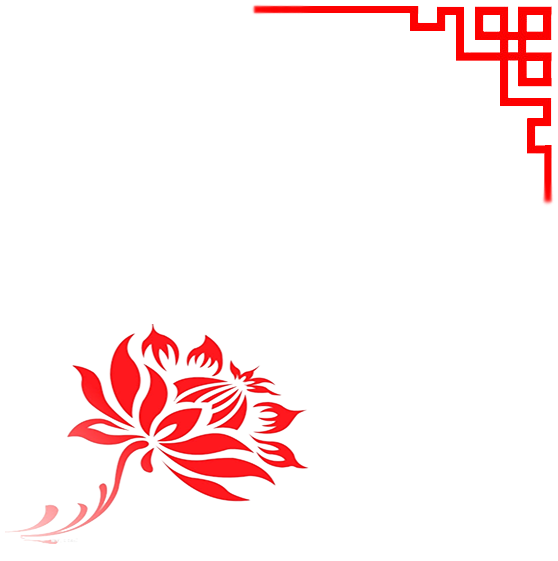
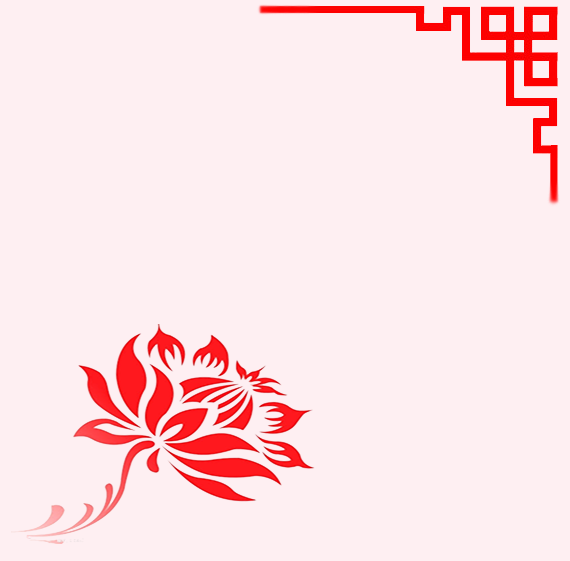
增加个人信息界面

Changed region(s): [[0.0305, 0.5758, 0.457, 0.9697], [0.7312, 0.0, 1.0, 0.3636], [0.4265, 0.7879, 0.4875, 0.8485]]

diff --git a/website/info.html b/website/info.html
@@ -30,69 +30,73 @@
             </div>
 	    </div>
 	</div>
+	
+	<!-- 中间部分 -->
+	<div class="content">
+		<!-- 隐藏的天空 -->
+		<div id="sky"></div>
+		<!-- 显示的天空 -->
+		<div class="section">
+			<div id="info">
+				<div class="navbar navbar-default" role="navigation">
+				     <ul class="nav navbar-nav">
+				     	<li class="active basic"><a href="##">基本信息</a></li>
+				        <li class="duilian"><a href="##">我的对联</a></li>
+				        <li class="points"><a href="##">我的积分</a></li>
+				        <li><a href="##">我要充值</a></li>
+				        <li><a href="##">收藏样式</a></li>
+					 </ul>
+				</div>
+				<!-- 基本信息 -->
+				<div class="info-basic">
+					<form role="form">
+					  <div class="form-group">
+					  	<label for="InputUsername">用户名：</label>
+					    <input type="text" class="form-control" placeholder="您的用户名">
+						
+						<div>
+						    <label >性别：
+						        <input type="radio"  value="option1" name="sex"> 男  
+						    </label>
+						    <label >
+						        <input type="radio"  value="option2" name="sex"> 女  
+						    </label>
+						</div>
 
-	<div class="section">
-		<div id="info">
-			<div class="navbar navbar-default" role="navigation">
-			     <ul class="nav navbar-nav">
-			     	<li class="active basic"><a href="##">基本信息</a></li>
-			        <li class="duilian"><a href="##">我的对联</a></li>
-			        <li class="points"><a href="##">我的积分</a></li>
-			        <li><a href="##">我要充值</a></li>
-			        <li><a href="##">收藏样式</a></li>
-				 </ul>
-			</div>
-			<!-- 基本信息 -->
-			<div class="info-basic">
-				<form role="form">
-				  <div class="form-group">
-				  	<label for="InputUsername">用户名：</label>
-				    <input type="text" class="form-control" placeholder="您的用户名">
-					
+					    <label for="InputEmail">邮箱：</label>
+					    <input type="email" class="form-control" placeholder="您的邮箱地址">
+						
+						<label for="Inputphonenumber">手机号码：</label>
+					    <input type="text" class="form-control" placeholder="您的手机号码">
+
+					    <label for="InputPassword">密码：</label>
+					    <input type="password" class="form-control" placeholder="您的密码">
+
+					  </div>
+					</form> 
+				</div>
+				<div class="my-duilian">
 					<div>
-					    <label >性别：
-					        <input type="radio"  value="option1" name="sex"> 男  
-					    </label>
-					    <label >
-					        <input type="radio"  value="option2" name="sex"> 女  
-					    </label>
+						<p>大鹏一日同风起，扶摇直上九万里;</p>
+						<p>破茧成蝶轻飞舞，浴火重生不畏苦。</p>
 					</div>
-
-				    <label for="InputEmail">邮箱：</label>
-				    <input type="email" class="form-control" placeholder="您的邮箱地址">
-					
-					<label for="Inputphonenumber">手机号码：</label>
-				    <input type="text" class="form-control" placeholder="您的手机号码">
-
-				    <label for="InputPassword">密码：</label>
-				    <input type="password" class="form-control" placeholder="您的密码">
-
-				  </div>
-				</form> 
-			</div>
-			<div class="my-duilian">
-				<div>
-					<p>大鹏一日同风起，扶摇直上九万里;</p>
-					<p>破茧成蝶轻飞舞，浴火重生不畏苦。</p>
+					<div>
+						<p>泛商海，同甘苦，竞逐群雄，一路豪情向天歌;</p>
+						<p>展宏图，攀高峰，搏击长空，七彩人生铸辉煌。</p>
+					</div>
+					<div>
+						<p>大鹏一日同风起，扶摇直上九万里;</p>
+						<p>破茧成蝶轻飞舞，浴火重生不畏苦。</p>
+					</div>
 				</div>
-				<div>
-					<p>泛商海，同甘苦，竞逐群雄，一路豪情向天歌;</p>
-					<p>展宏图，攀高峰，搏击长空，七彩人生铸辉煌。</p>
+				<div class="my-points">
+					<h4>我的所有积分：900</h4>
+					<p>已用积分：168</p>
+					<p>剩余积分：732</p>
 				</div>
-				<div>
-					<p>大鹏一日同风起，扶摇直上九万里;</p>
-					<p>破茧成蝶轻飞舞，浴火重生不畏苦。</p>
-				</div>
-			</div>
-			<div class="my-points">
-				<h4>我的所有积分：900</h4>
-				<p>已用积分：168</p>
-				<p>剩余积分：732</p>
 			</div>
 		</div>
 	</div>
-
-
 
 	<!-- 关于我们 -->
     <!-- Footer -->

diff --git a/website/css/index_user.css b/website/css/index_user.css
@@ -32,13 +32,13 @@ body {
 /*顶部固定栏*/
 .entry{ max-width:1200px; min-width:1200px; margin:0 auto;}
 .top{ display:block; width:100%; height:80px; position:fixed; z-index:999; left:0; top:0;background-color: #000;}
-.top .entry{ height:80px; transition:all 0.4s ease 0s; position:relative;}
+.top .entry{ height:80px; transition:all 0.4s ease 0s; position:relative; padding-left: 10px;}
 .top .entry:after{ display:block; content:" "; font-size:0; line-height:0; position:absolute; width:100%; height:1px; overflow:hidden; left:0; bottom:0; background:rgba(126,121,137,0.4);}
 .top a{ color:#FFF; transition:all 0.18s ease-out 0s; text-decoration:none;}
 .top a:hover{ color:#67AF27;}
 
 .top .logo{ float:left; margin-top:22px; color:#FFF;}
-.top .logo a{ display:block; background:url(../img/logo.png) no-repeat; padding-left:50px; text-decoration:none; line-height:34px; color:#FFF; font-size:28px;}
+.top .logo a{ display:block; background:url(../img/logo.png) no-repeat;background-size:36px 36px; padding-left:45px; text-decoration:none; line-height:34px; color:#FFF; font-size:28px;}
 .top .logo a:hover{ opacity:0.8;}
 
 .top .navWrap{ float:right;}
@@ -187,7 +187,7 @@ hr.small {
     position: relative;
     width: 100%;
     height: 100%;
-    background: url(../img/bg.jpg) no-repeat center center scroll;
+    background: url(../img/bg_index.jpg) no-repeat center center scroll;
     -webkit-background-size: cover;
     -moz-background-size: cover;
     background-size: cover;
@@ -207,7 +207,7 @@ hr.small {
 .about .value{
     position: absolute;
     top:40%;
-    left: 30%;
+    left: 20%;
 }
 
 /*系统目标*/
@@ -234,7 +234,7 @@ hr.small {
     width: 100%;
     height: 400px;
     color: #fff;
-    background: url(../img/callout.jpg) no-repeat center center scroll;
+    background: url(../img/hehua.jpg) no-repeat center center scroll;
     -webkit-background-size: cover;
     -moz-background-size: cover;
     background-size: cover;

diff --git a/website/index.html b/website/index.html
@@ -106,7 +106,7 @@
                         <a href="#">
                             <img class="img-portfolio img-responsive" src="img/portfolio-2.jpg">
                         </a>
-                       <a href="#" class="btn btn-dark btn-lg bigvalue">生活的个性化设置</a>
+                       <a href="#" class="btn btn-dark btn-lg bigvalue">   贴合生活的个性化设置</a>
                     </div>
                 </div>
                 <div class="col-md-4">
@@ -114,7 +114,7 @@
                         <a href="#">
                             <img class="img-portfolio img-responsive" src="img/portfolio-3.jpg">
                         </a>
-                        <a href="#" class="btn btn-dark btn-lg value">活方便的多样选择</a>
+                        <a href="#" class="btn btn-dark btn-lg value"> 灵活方便的多样选择</a>
                     </div>
                 </div>
                 <div class="col-md-4">
@@ -122,13 +122,13 @@
                         <a href="#">
                             <img class="img-portfolio img-responsive" src="img/portfolio-4.jpg">
                         </a>
-                        <a href="#" class="btn btn-dark btn-lg value">能业绩统计分析化</a>
+                        <a href="#" class="btn btn-dark btn-lg value"> 智能业绩统计分析化</a>
                     </div>
                 </div>
                 <div class="col-md-4">
                     <div class="portfolio-item">
                         <a href="#">
-                            <img class="img-portfolio img-responsive" src="img/portfolio-4.jpg">
+                            <img class="img-portfolio img-responsive" src="img/portfolio-5.jpg">
                         </a>
                         <a href="#" class="btn btn-dark btn-lg value">完善服务评价体系</a>
                     </div>

diff --git a/website/js/info.js b/website/js/info.js
@@ -28,4 +28,44 @@
 	  		$(".info-basic").slideUp();
 		}
   });
- });
+
+// 背景移动所需参数
+	$sky1 = $(".section");
+	$sky2 = $("#sky");
+	mainwidth = $(".section").outerWidth();  
+	offset = -$(".section").width();
+
+	var offset1 = 0;//显示的云
+	var offset2 = offset;//隐藏的云
+ //背景云移动
+ setInterval(function flutter() {
+	if (offset1 >= mainwidth) {
+		offset1 =  offset;
+	}
+
+	if (offset2 >= mainwidth) {
+		 offset2 =  offset;
+	}
+	offset1 += 1;
+	offset2 += 1;
+	$sky1.css("background-position", offset1 + "px 0")
+	
+	$sky2.css("background-position", offset2 + "px 0")
+}, 70);
+
+ // $(function (){
+ //    // var $width=$(".section").width();
+ //    // while(1){
+	//     $(".section").animate({
+	//         "background-position-x": "+1500",
+	//         "background-position-y": "0"
+	//     }, 50000);
+	// 	 $("#sky").animate({
+	//         "background-position-x": "+1500",
+	//         "background-position-y": "0"
+	//     }, 70320);
+
+ // 		// $(".section").css(background-position);
+	// // }
+	//   });
+  });

diff --git a/website/css/info.css b/website/css/info.css
@@ -54,11 +54,29 @@ body {
 }
 
 /*中间部分*/
-.section{
+.content{
+    position: relative;
     width: 100%;
-    min-height:560px;
-    background-color: #FEEFF2;
-    padding: 100px;
+    min-height:720px;
+}
+#sky{
+    position: absolute;
+    top: 80px;
+    width: 100%;
+    min-height:720px;
+    background: url(../img/yuncai.png) no-repeat;
+    background-size: 100% auto;
+  /*  background-position:-1505px 0;*/
+}
+.section{
+    position: absolute;
+    top: 80px;
+    width: 100%;
+    min-height:720px;
+    background: url(../img/yuncai.png) no-repeat;
+    background-size: 100% auto;
+  /*  background-position:0 0;*/
+    /*padding: 100px;*/
 }
 #info{
     background: url(../img/info-bg.png) no-repeat;
@@ -133,7 +151,7 @@ body {
 /* Footer */
 
 footer {
-    padding: 50px 0;
+    padding: 130px 0 50px 0;
     background-color: #fff;
 }
 #to-top {

diff --git a/website/css/duilian.css b/website/css/duilian.css
@@ -1,6 +1,6 @@
 @import url('reset.css');
 body{
-	background:#f7f7f7 url(../img/pinstripe.gif) repeat top left;/*背景图*/
+	background:#f7f7f7 url(../img/pinstripe.png) repeat top left;/*背景图*/
 	color:#000;
 	font-family: Georgia, "Times New Roman",sans-serif;
 	font-size:12px;

diff --git a/website/css/knowledge.css b/website/css/knowledge.css
@@ -1,4 +1,4 @@
-body{ background-color:#000000}
+body{ background-color:#FEEFF2}
 /*顶部固定栏*/
 .entry{ max-width:1200px; min-width:1200px; margin:0 auto;}
 .top{ display:block; width:100%; height:80px; position:fixed; z-index:999; left:0; top:0;background-color: #000;}
